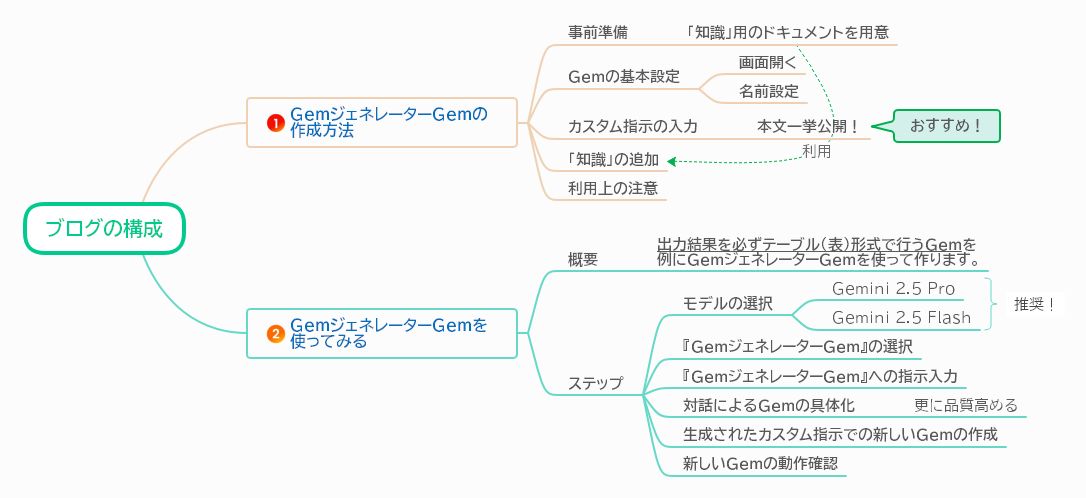
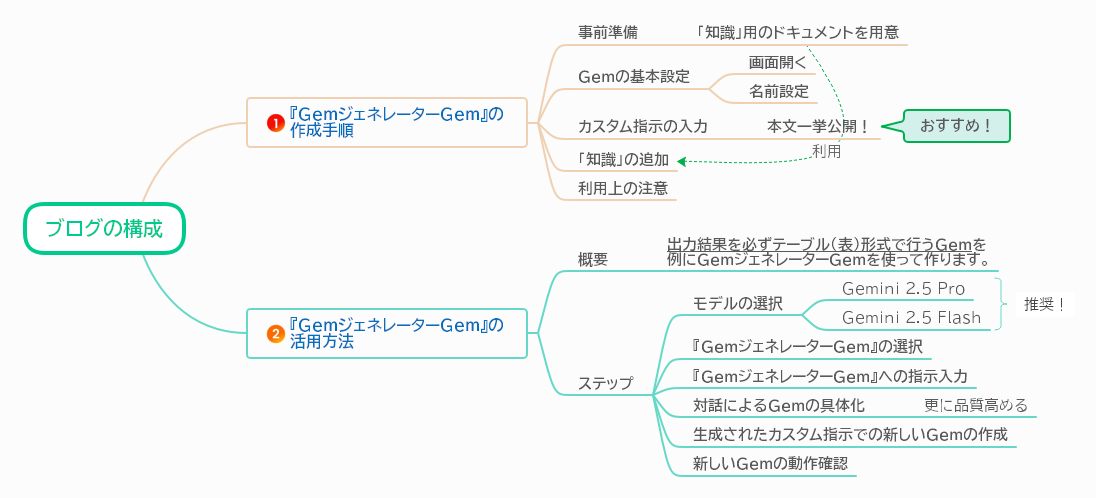
内容最終調整

diff --git a/articles/turtle-20250507-gem2gem.md b/articles/turtle-20250507-gem2gem.md
@@ -1,5 +1,5 @@
 ---
-title: "Geminiで『Gemを作るGem』の作り方！Gemを量産してAIを効率活用"
+title: "Geminiで『Gemを作るGem』の作り方！Gemを量産してAIをさらに活用"
 emoji: "🐢"
 type: "tech" # tech: 技術記事 / idea: アイデア
 topics: [Gemini, Gem, 生成AI, Google, 効率化]
@@ -23,18 +23,18 @@ https://zenn.dev/safubuki/articles/turtle-20250502-gem
 そんな悩みを解決するために、今回ご紹介するのが「**Gemを作るためのGem**」、名付けて『**GemジェネレーターGem**』です！
 この『GemジェネレーターGem』さえあれば、簡単な指示からでも、対話形式であなただけのオリジナルGemを効率的に、そして高品質に作成することができます。
 
-この記事では、『GemジェネレーターGem』の作り方と使い方を具体的に解説します。もちろん、『GemジェネレーターGem』自体のカスタム指示も全て公開しますので、ぜひ皆さんの環境で試して、Gem作成の効率を飛躍的に向上させてみてください。
+この記事では、『GemジェネレーターGem』の作り方と使い方を具体的に解説します。もちろん、『GemジェネレーターGem』自体のカスタム指示も全て公開しますので、ぜひ一度試して、Gem作成が楽になるのを体感してみてください。
 
 ## このブログの構成
 
 このブログは、以下の主要な章で構成されています。
 
-![](/images/turtle-20250507-gem2gem/blog_struct.png =600x)
+![](/images/turtle-20250507-gem2gem/blog_struct.png)
 *ブログ構成図*
 
-## 『GemジェネレーターGem』の作成方法
+## 『GemジェネレーターGem』の作成手順
 
-まずは、『**GemジェネレーターGem**』を実際に作成する手順を説明します。Gemの基本的な作成方法については、前述の私のブログ記事をご参照ください。
+まずは、『**GemジェネレーターGem**』を実際に作成する手順を説明します。Gemの基本的な作り方については、前述の私のブログ記事をご参照ください。
 
 https://zenn.dev/safubuki/articles/turtle-20250502-gem
 
@@ -171,9 +171,9 @@ https://zenn.dev/safubuki/articles/turtle-20250502-gem
 * 生成されたGemのカスタム指示は、必ず内容をよく確認し、ご自身の責任において利用してください。
 * 必要に応じて、生成されたカスタム指示を微調整することで、より目的に合致したGemになります。
 
-## 『GemジェネレーターGem』を使ってみる
+## 『GemジェネレーターGem』の活用方法
 
-それでは、作成した『GemジェネレーターGem』を実際に使って、新しいGemを作成する手順を紹介します。
+それでは、作成した『GemジェネレーターGem』を実際に使って、新しいGemを作成する方法を紹介します。
 ここでは例として、「**出力結果を必ずテーブル（表）形式で行うGem**」を、作ってみます。
 
 ### 1. AIモデルの選択
